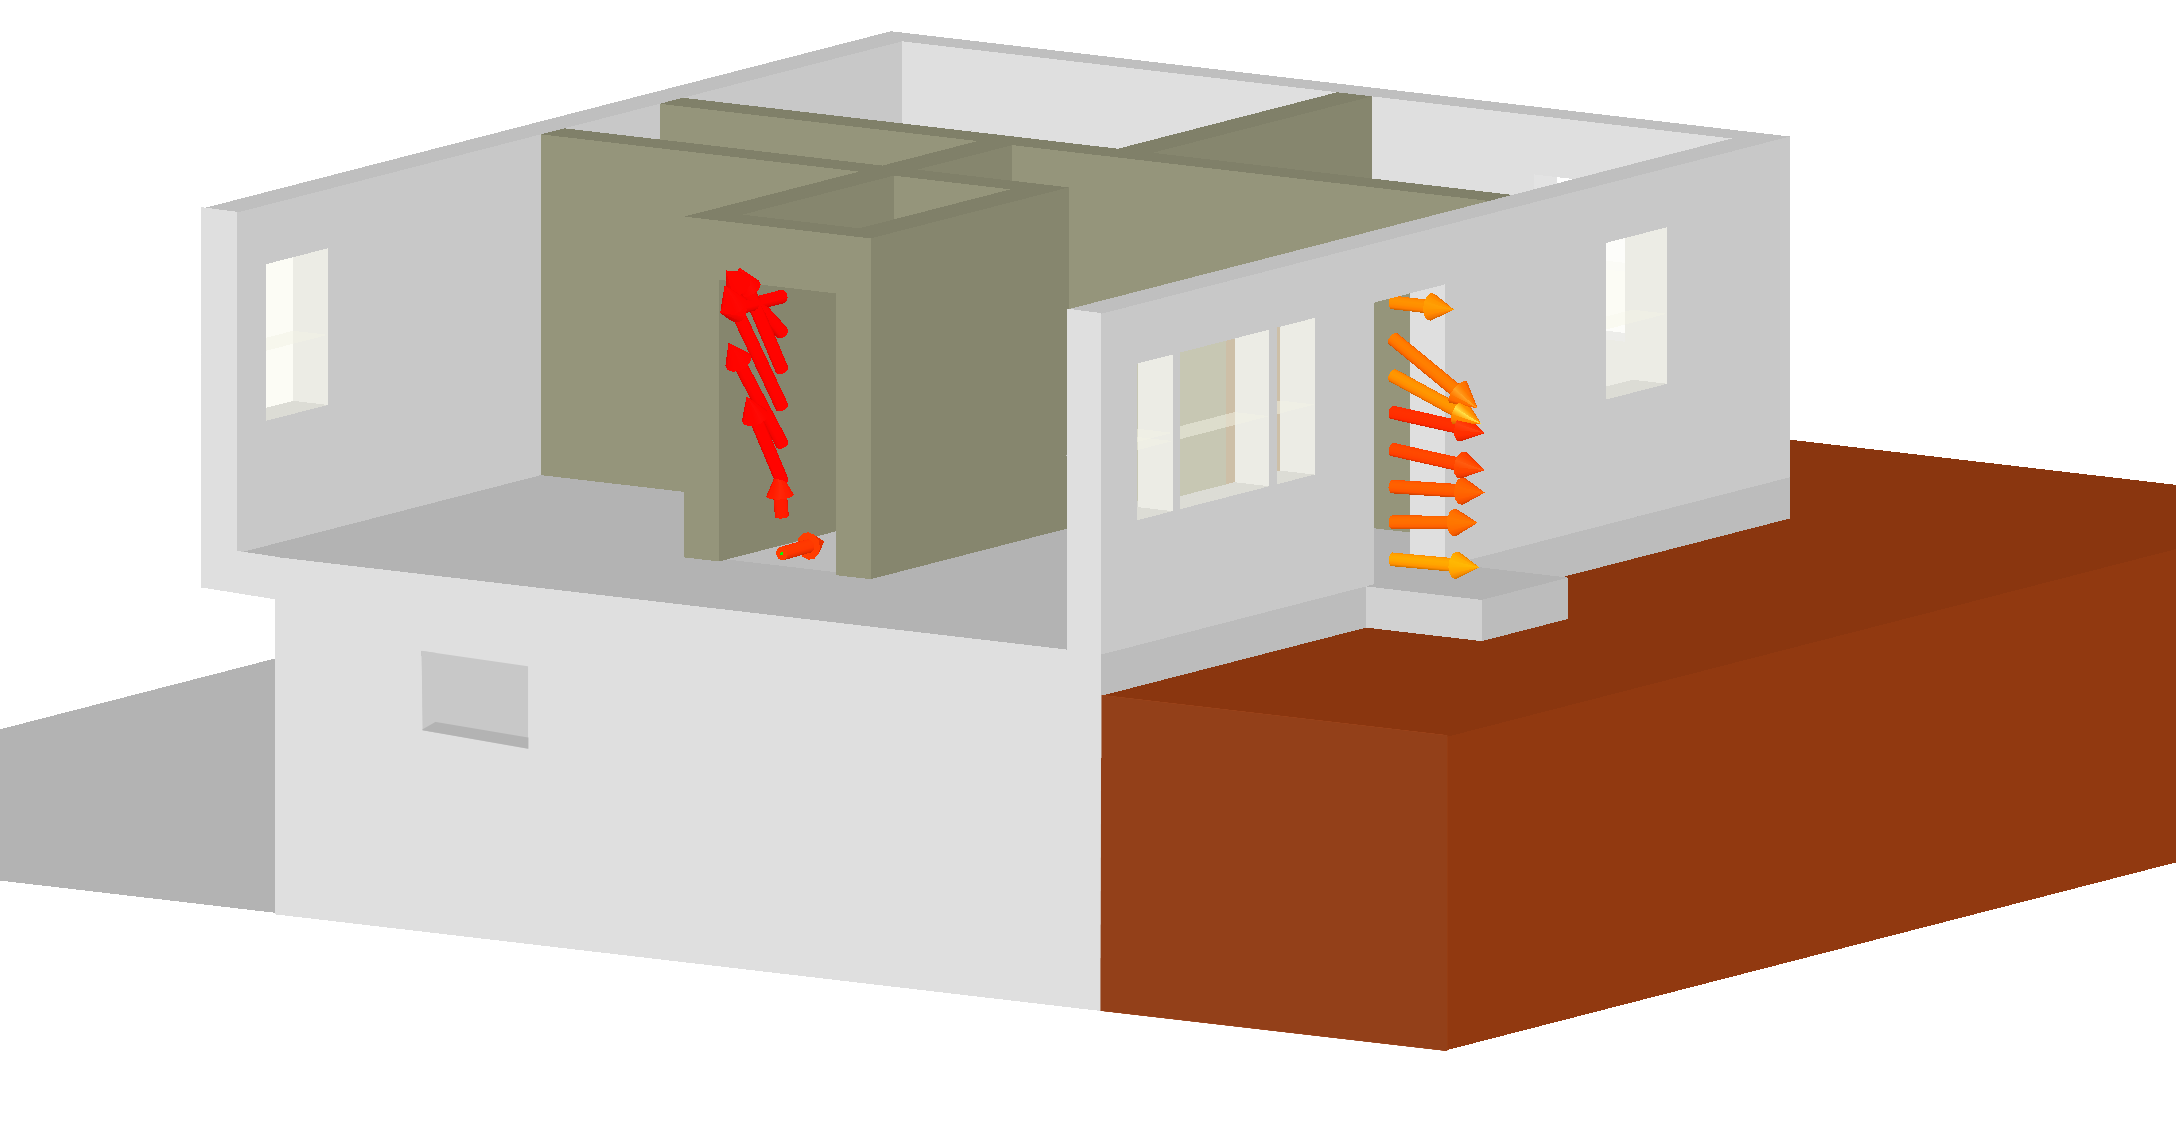
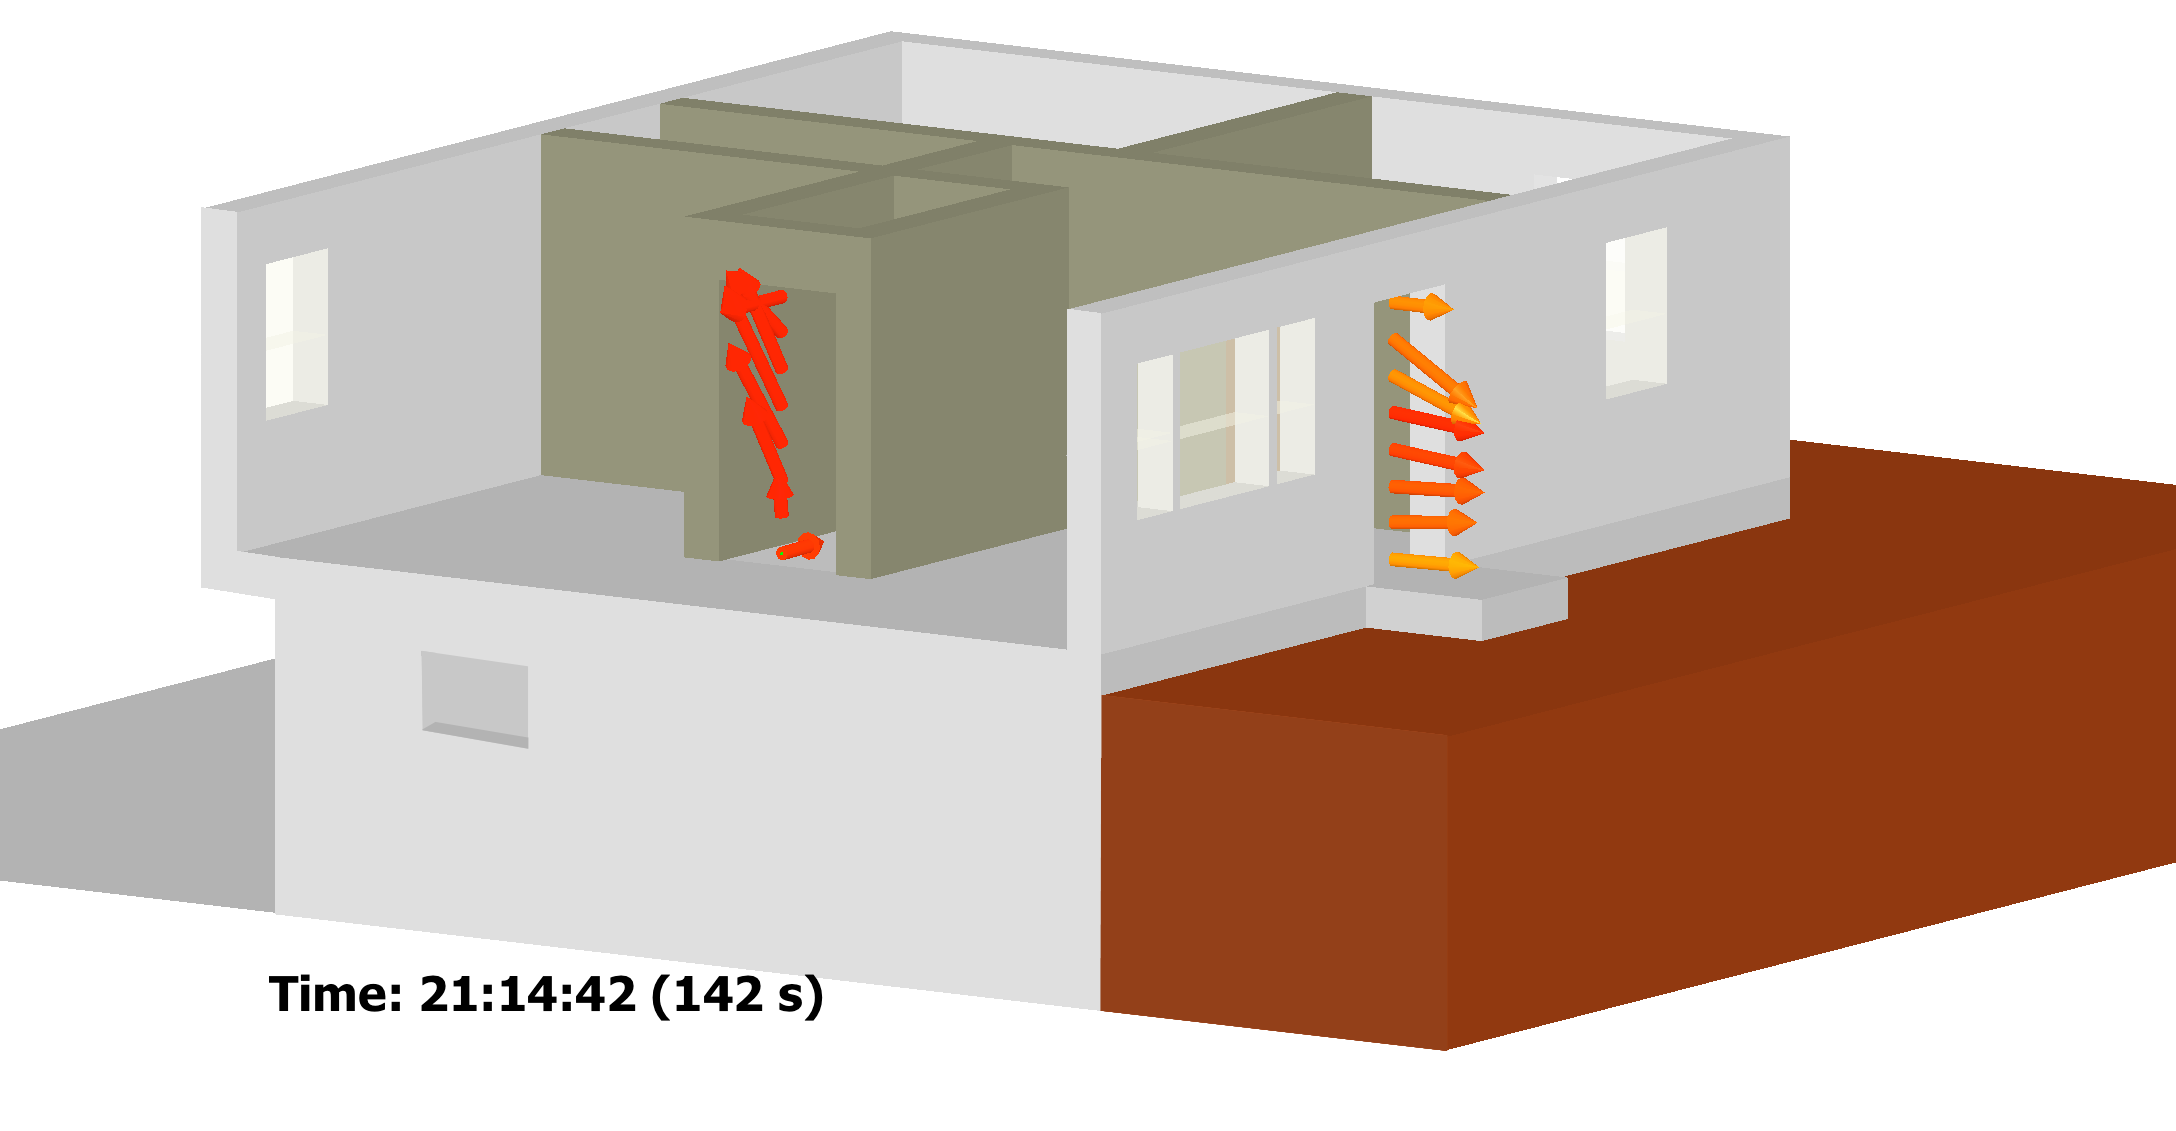
PG Co: update report, modify and add figures

Changed region(s): [[0.3125, 0.2476, 0.375, 0.4332], [0.125, 0.8665, 0.375, 0.8974]]

diff --git a/Studies/2013_PG_County/Report/PG_Co_Fire.tex b/Studies/2013_PG_County/Report/PG_Co_Fire.tex
@@ -230,7 +230,7 @@ Fire Dynamics Simulator (FDS), which is a fire model that is developed and maint
 \chapter{Introduction}
 \pagenumbering{arabic}
 \setcounter{page}{1}
-Part of the function of the Fire Research Division at NIST is to develop and apply technology, measurements, and standards to improve the understanding of the behavior, prevention, and control of fires to enhance fire fighting operations and equipment, fire suppression, fire investigations, and disaster response. NIST has previously used the Fire Dynamics Simulator (FDS) fire model to provide insight into the fire development and thermal conditions of fires that have resulted in line of duty deaths (LODDs)~\cite{Madrzykowski:1,Iowa,Texas,Bryner:Charleston,barowy:texas,Weinschenk:Chicago}. The objective of these studies has been to improve the safety and effectiveness of firefighters.
+Part of the function of the Fire Research Division at NIST is to develop and apply technology, measurements, and standards to improve the understanding of the behavior, prevention, and control of fires to enhance fire fighting operations and equipment, fire suppression, fire investigations, and disaster response. NIST has previously used the Fire Dynamics Simulator (FDS) fire model to provide insight into the fire development and thermal conditions of fires that have resulted in line of duty deaths (LODDs)~\cite{Madrzykowski:1,Iowa,Texas,Bryner:Charleston,barowy:texas,Weinschenk:Chicago,Overholt:San_Francisco}. The objective of these studies has been to improve the safety and effectiveness of firefighters.
 
 On February 24, 2012, a fire in residential structure injured seven Prince George's County firefighters. NIST examined the fire dynamics of this incident at the request of the Prince George's Country Fire/Emergency Medical Services (EMS) Department. Computer simulations of the fire incident were conducted using the NIST Fire Dynamics Simulator~\cite{FDS_Users_Guide} and Smokeview~\cite{Smokeview_Users_Guide}  software to provide insight into the fire development and thermal conditions that likely existed in the residence during the fire. The specific objectives of the simulations detailed in this report are: 
 \begin{enumerate}
@@ -737,7 +737,7 @@ To examine the impact of opening the front door on the establishment of a flow p
 
 \clearpage
 
-At the estimated time of firefighter entry to the first floor (142~s into the simulation; 21:14:42 according to Table~\ref{tab:combined_timeline}), the simulated flow magnitudes through the first floor (stairwell and front doors) remained similar to the conditions just after opening the front door. The modeln temperatures increased through the stairwell doorway to between 400~$^{\circ}$C and 425~$^{\circ}$C (750-800~$^{\circ}$F) and through the front door to approximately 375~$^{\circ}$C (700~$^{\circ}$F). From the approximate timeline (Table~\ref{tab:combined_timeline}), the front door was forced closed due to airflow pushing against the front door 207~s into the simulation. Figures~\ref{fig:flow_path_206s} and \ref{fig:flow_path_207s} show the conditions 1~s prior to and after the front door closed. The figures show that while the closed door stopped significant flow through the stairwell door and onto the first floor, temperature hazard for the firefighters (temperatures at or above 400~$^{\circ}$C or 750~$^{\circ}$F) remained.
+At the estimated time of firefighter entry to the first floor (142~s into the simulation; 21:14:42 according to Table~\ref{tab:combined_timeline}), the simulated flow magnitudes through the first floor (stairwell and front doors) remained similar to the conditions just after opening the front door. Velocities through both the doorway at the top of the stairs and the front door were approximately 13~m/s (29~mph), faster than the incident wind  speed (9~m/s or 20~mph) because of the addition of the bouyancy of the fire plume. The model temperatures increased through the stairwell doorway to between 400~$^{\circ}$C and 425~$^{\circ}$C (750-800~$^{\circ}$F) and through the front door to approximately 375~$^{\circ}$C (700~$^{\circ}$F). From the approximate timeline (Table~\ref{tab:combined_timeline}), the front door was forced closed due to airflow pushing against the front door 207~s into the simulation. Figures~\ref{fig:flow_path_206s} and \ref{fig:flow_path_207s} show the conditions 1~s prior to and after the front door closed. The figures show that while the closed door stopped significant flow through the stairwell door and onto the first floor, temperature hazard for the firefighters (temperatures at or above 400~$^{\circ}$C or 750~$^{\circ}$F) remained.
 
 \begin{figure}[!ht]
 \includegraphics[trim = 2.5in 0in 4in 0in, clip=true, width=.65\textwidth]{../Figures/flow_vector_142s}
@@ -770,6 +770,51 @@ At the estimated time of firefighter entry to the first floor (142~s into the si
 
 \section{Assessing the Hazard}
 \label{assessing_hazard}
+A person is susceptible to second-degree burn injuries if exposed to temperatures greater than 55~$^{\circ}$C (130~$^{\circ}$F)~\cite{contactburn}. Although firefighters wear protective gear, gear only offers a finite amount of protection. The polycarbonate material in the facepiece of a self-contained breathing apparatus begins to soften when the material temperature reaches approximately 140~$^{\circ}$C (284~$^{\circ}$F)~\cite{mensch2011emergency}. Structural fire fighting coats and pants are tested to withstand temperatures of 260~$^{\circ}$C (500~$^{\circ}$F)~\cite{nfpa2013standard}. Prolonged exposure to elevated temperatures can result in a significant amount of heat transferred to the firefighter, putting him or her at risk. Exposure of equipment to temperatures of 260~$^{\circ}$C (500~$^{\circ}$F) represents a Class~III exposure~\cite{Donnelly2006}. Firefighters are at increased risk levels when encountering Class~III exposure conditions for more than 5~minutes~\cite{Donnelly2006}.
+
+
+\begin{figure}[!ht]
+\begin{subfigure}{0.65\textwidth}
+\includegraphics[trim = 0in 0in 0in 0in, clip=true, width=\textwidth]{../Figures/side_view_99s} \\
+\includegraphics[trim = 0in 0in 0in 0in, clip=true, width=\textwidth]{../Figures/stair_view_99s} 
+\end{subfigure}
+\begin{subfigure}{0.35\textwidth}
+\input{../Scripts/colorbar_metric_temp}
+\input{../Scripts/colorbar_std_temp} \\
+\end{subfigure}
+\caption[Interior temperature contours 1~s before front door was opened]
+{Interior temperature contours 1~s before front door was opened. The top snapshot shows temperatures on the first floor and basement on a plane that runs through the center front door. The bottom snapshot shows temperatures on the first floor and basement on a plane that runs through the center of the interior stairwell doorway.}
+\label{fig:int_temp_99s}
+\end{figure}
+
+\begin{figure}[!ht]
+\begin{subfigure}{0.65\textwidth}
+\includegraphics[trim = 0in 0in 0in 0in, clip=true, width=\textwidth]{../Figures/side_view_101s} \\
+\includegraphics[trim = 0in 0in 0in 0in, clip=true, width=\textwidth]{../Figures/stair_view_101s} 
+\end{subfigure}
+\begin{subfigure}{0.35\textwidth}
+\input{../Scripts/colorbar_metric_temp}
+\input{../Scripts/colorbar_std_temp} \\
+\end{subfigure}
+\caption[Interior temperature contours 1~s after front door was opened]
+{Interior temperature contours 1~s after front door was opened. The top snapshot shows temperatures on the first floor and basement on a plane that runs through the center front door. The bottom snapshot shows temperatures on the first floor and basement on a plane that runs through the center of the interior stairwell doorway.}
+\label{fig:int_temp_101s}
+\end{figure}
+
+\begin{figure}[!ht]
+\begin{subfigure}{0.65\textwidth}
+\includegraphics[trim = 0in 0in 0in 0in, clip=true, width=\textwidth]{../Figures/side_view_142s} \\
+\includegraphics[trim = 0in 0in 0in 0in, clip=true, width=\textwidth]{../Figures/stair_view_142s} 
+\end{subfigure}
+\begin{subfigure}{0.35\textwidth}
+\input{../Scripts/colorbar_metric_temp}
+\input{../Scripts/colorbar_std_temp} \\
+\end{subfigure}
+\caption[Interior temperature contours as firefighters made entry to the structure]
+{Interior temperature contours as firefighters made entry to the structure. The top snapshot shows temperatures on the first floor and basement on a plane that runs through the center front door. The bottom snapshot shows temperatures on the first floor and basement on a plane that runs through the center of the interior stairwell doorway.}
+\label{fig:int_temp_142s}
+\end{figure}
+
 
 \clearpage
 
